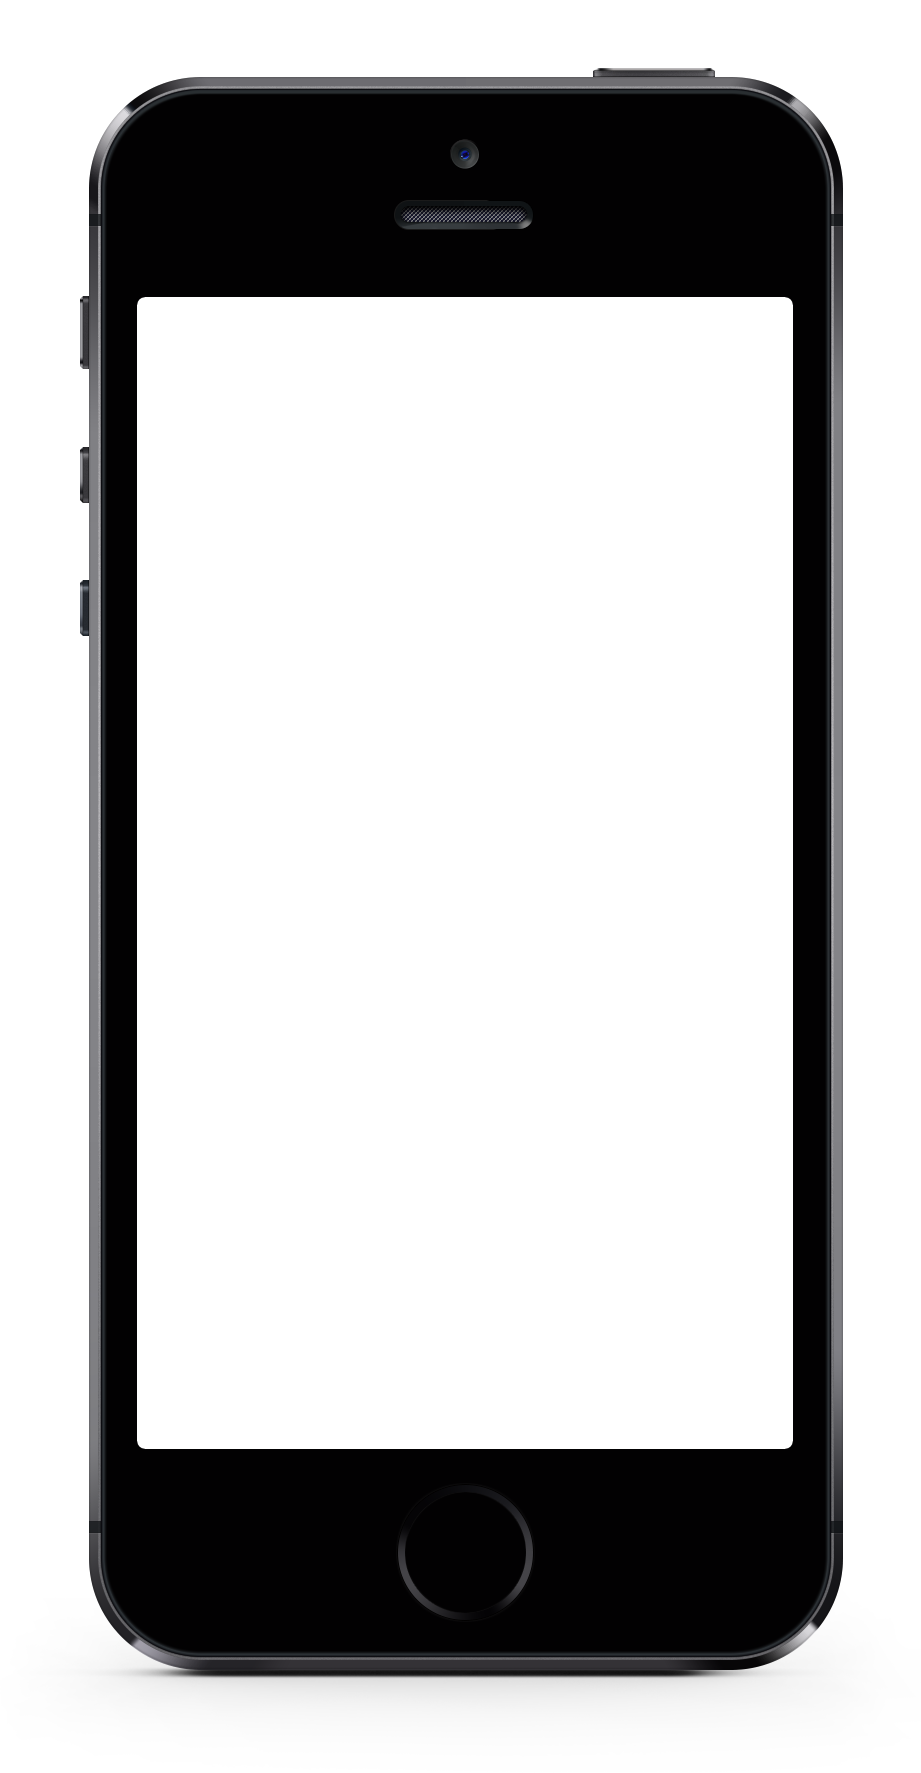
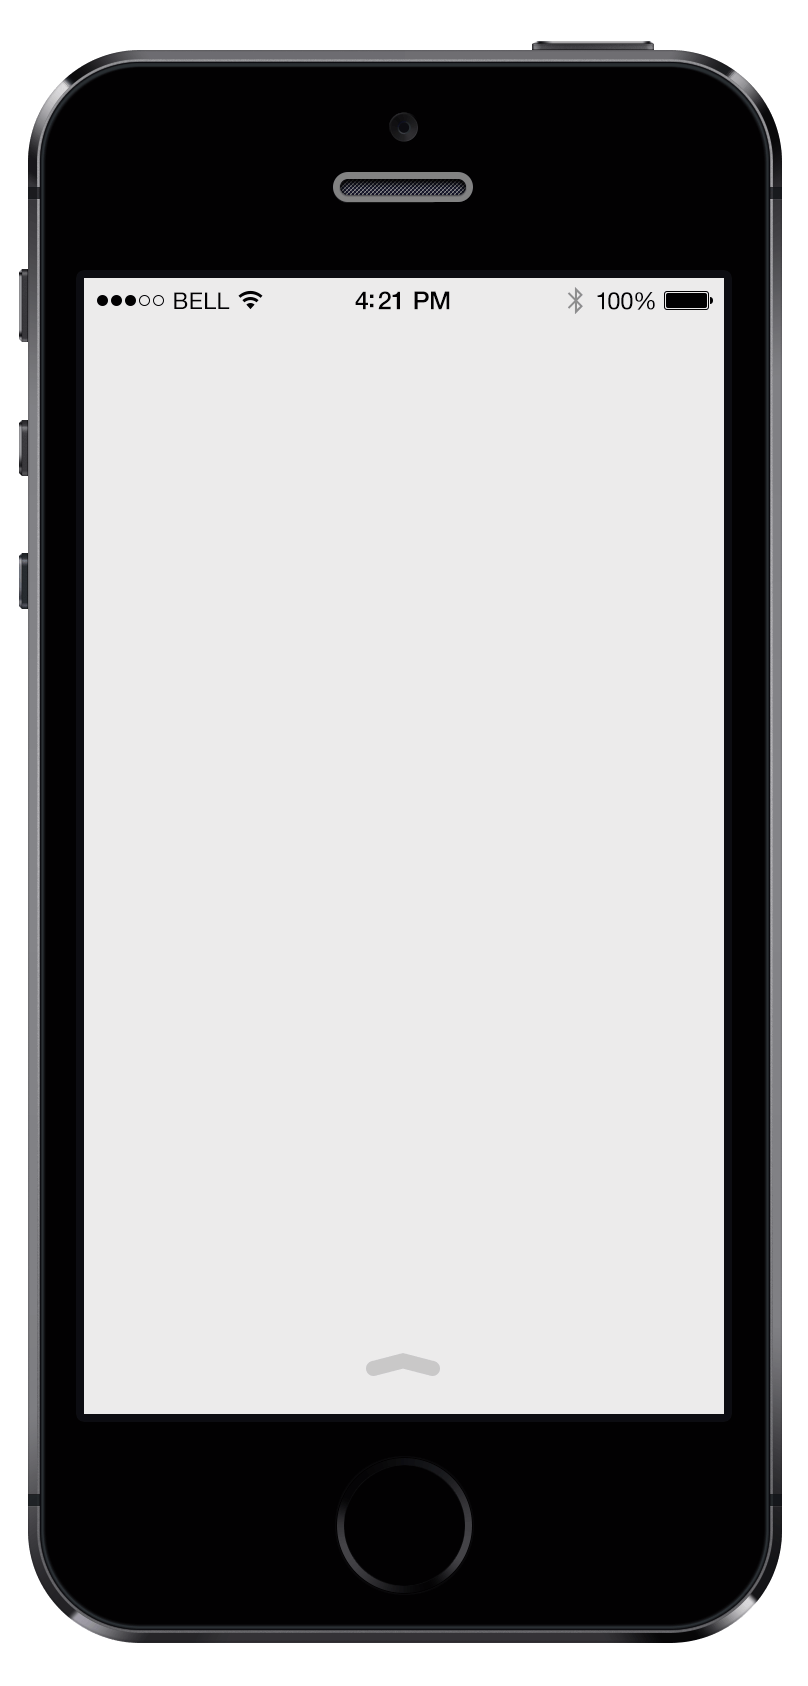
ajust images placement

Changed region(s): [[0.0, 0.0, 0.9901, 0.987]]

diff --git a/index.html b/index.html
@@ -42,7 +42,7 @@
 
             <div id="animation-1" class="cta">
                 <div class="row" data-equalizer>
-                    <div class="medium-4 small-12 columns text-center" data-equalizer-watch>
+                    <div class="medium-3 small-12 columns text-center" data-equalizer-watch>
                         <div class="animated scene-screen">
                             <img class="screen-wrapper" src="img/iPhone-5S-black.png">
                             <img class="screen" src="img/screen-scene.gif">
@@ -350,16 +350,16 @@
 
             $(window).stellar();
 
-            $(document).ready(function(){
-               $('.scene-screen').addClass('fadeInLeft');
-            });
+            // $(document).ready(function(){
+            //    $('.scene-screen').addClass('fadeInLeft');
+            // });
 
-            var waypoint = new Waypoint({
-                element: document.getElementById('users-section'),
-                handler: function() {
-                    $('#clients-phone, #prof-phone, #owner-phone').addClass('fadeInRight');
-                }
-            })
+            // var waypoint = new Waypoint({
+            //     element: document.getElementById('users-section'),
+            //     handler: function() {
+            //         $('#clients-phone, #prof-phone, #owner-phone').addClass('fadeInRight');
+            //     }
+            // })
 
         </script>
     </body>

diff --git a/scss/components/layout.scss b/scss/components/layout.scss
@@ -159,7 +159,7 @@ section {
 	background-color: -webkit-linear-gradient(left, rgba(0,0,0,0.6) 0%,rgba(0,0,0,0.06) 100%); /* Chrome10-25,Safari5.1-6 */
 	background-color: linear-gradient(to right, rgba(0,0,0,0.6) 0%,rgba(0,0,0,0.06) 100%); /* W3C, IE10+, FF16+, Chrome26+, Opera12+, Safari7+ */
 	filter: progid:DXImageTransform.Microsoft.gradient( startColorstr='#99ffffff', endColorstr='#0fffffff',GradientType=1 ); /* IE6-9 */
-	background: $primary-color url('../img/stylist-tools-cropped-left-bw.png') center center no-repeat;
+	background: $primary-color url('../img/stylist-tools-cropped-left.jpg') 0 -230px no-repeat;
 	background-size: cover;
 	background-attachment: fixed;
 	.cta {
@@ -215,9 +215,9 @@ section {
 	position: relative;
 	.screen {
 		position: absolute;
-		top: 17%;
-		left: 15.5%;
-		width: 70%;
+		top: 16.6%;
+		left: 10%;
+		width: 79.7%;
 		height: auto;
 	}
 }

diff --git a/css/app.css b/css/app.css
@@ -6018,7 +6018,7 @@ section {
   /* W3C, IE10+, FF16+, Chrome26+, Opera12+, Safari7+ */
   filter: progid:DXImageTransform.Microsoft.gradient( startColorstr='#99ffffff', endColorstr='#0fffffff',GradientType=1 );
   /* IE6-9 */
-  background: #5A1657 url("../img/stylist-tools-cropped-left-bw.png") center center no-repeat;
+  background: #5A1657 url("../img/stylist-tools-cropped-left.jpg") 0 -230px no-repeat;
   background-size: cover;
   background-attachment: fixed; }
   .jumbotron .cta {
@@ -6060,9 +6060,9 @@ section {
   position: relative; }
   .scene-screen .screen {
     position: absolute;
-    top: 17%;
-    left: 15.5%;
-    width: 70%;
+    top: 16.6%;
+    left: 10%;
+    width: 79.7%;
     height: auto; }
 
 .scene {
